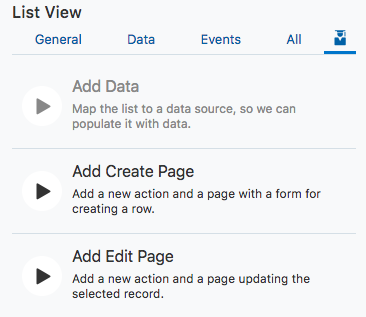
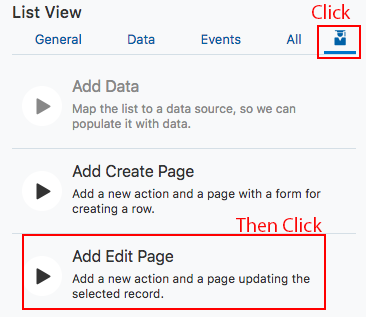
Updates to lab 200 in q/a got to line 134.

Changed region(s): [[0.0601, 0.6814, 0.9016, 0.9937], [0.8415, 0.0, 0.9918, 0.1987]]

diff --git a/LabGuide200.md b/LabGuide200.md
@@ -14,13 +14,13 @@
 
 ## Required Artifacts
 
-- This lab assumes that you have completed the [lab 100](/LabGuide100.md).
+- This lab assumes that you have completed the [Lab 100](/LabGuide100.md).
 
-## Add Create and Edit Pages
+## Creating and Editing Pages
 
 Now that we have a display of our data, the next step is to allow additions and edits to that data. This will allow users to add new wines as they become available and edit the inventory/reserved counts.
 
-### Add Create Page
+### Create a New Page
 
 - In the **Designer View** of our app, click inside the list component but outside an individual item so that the List is selected and the **List View** tag is displayed in blue.
 
@@ -47,7 +47,7 @@ Now that we have a display of our data, the next step is to allow additions and 
 
 ![](images/LabGuide200-1be1d6be.png)
 
-- You will be presented with the main page of the app again. In order to view the new page  select the monitor icon,, and expand **InventoryWebApp --> flows --> main** dropdown then select **CreateInventory**.
+- You will be presented with the main page of the app again. In order to view the new page  select the monitor icon, and expand **InventoryWebApp --> flows --> main** dropdown then select **CreateInventory**.
 
 ![](images/LabGuide200-743dc668.png)
 
@@ -62,13 +62,17 @@ Now that we have a display of our data, the next step is to allow additions and 
 - Once in live mode, enter a new wine and click **Save**. You can enter your favorite wine or use the following example:
 
   - **name:** ```  Ice  ```
-  - **variant:** ```  white  ```
   - **quantity:** ```  50  ```
   - **reserved:** ```  0  ```
+  - **variant:** ```  white  ```
 
 ![](images/LabGuide200-dc8bd8fe.png)
 
-(The save may take a few seconds, you'll know it's finished when you see the following screen.)
+The save may take a few seconds, you'll will first see the image below.
+
+![](images/LabGuide200-92be9188.png)
+
+Once the save is complete the following image will appear.
 
 ![](images/LabGuide200-b055e910.png)
 
@@ -76,26 +80,35 @@ Now that we have a display of our data, the next step is to allow additions and 
 
 ![](images/LabGuide200-8a1542ea.png)
 
-- Exit Live mode by selecting the Design button.
+- Then press the **Run** button.
 
-![](images/LabGuide200-42ac6cc4.png)
+![](images/LabGuide200-c22e5c87.png)
 
-
-- Back in the **main-start** page you'll see our new entry is added to the list, and also note that there is a new **Create** button which was added for us by using the **Quick Start** guide. Buttons are automatically created to link pages inside the quick start guide.
+- In the new browser tab you'll see our added data is in the list, and also note that there is a new **Create** button which was added for us by using the **Quick Start** guide. Buttons are automatically created to link pages inside the quick start guide.
 
 ![](images/LabGuide200-b7a2d3dc.png)
+
+- Close your new tab to and exit Live mode by selecting the **Design** button.
+
+![](images/LabGuide200-42ac6cc4.png)
 
 ### Add Edit Page
 
 - Now lets use the **Quick Start** guide to add an **Edit** page and a **Delete** button to our app's main page. Once again, click on the **List** component outside of a specific item so that the **List View** tag appears.
 
-  ![](images/200/listSelected.png)
+![](images/200/listSelected.png)
 
-- Now the **List View** detail panel should be displayed on the right. Click on the **Quick Start** icon and we'll see the links to add pages. This time we'll add an **Edit** page. This will allow users to edit the inventory and reserve counts of the items. Click on **Add Edit Page** in the right panel.
+- Now the **List View** detail panel should be displayed on the right. Click on the **Quick Start** icon and we'll see the links to add pages. Then click on **Add Edit Page** in the right panel.
 
-  - ![](images/200/addEditPage.png)
+![](images/200/addEditPage.png)
 
-- On the **Select Read Endpoint** page we'll leave the default endpoint selected (GET /Inventory/{Inventory_Id}), and click **Next**. On the next step we'll leave the **Select Update Endpoint** set as the default (PATCH /Inventory/{Inventory_Id}) and click **Next**.
+- On the **Select Read Endpoint** page we'll leave the default endpoint selected (GET /Inventory/{Inventory_Id}), and click **Next**.
+
+![](images/LabGuide200-7465d138.png)
+
+- On the next step we'll leave the **Select Update Endpoint** set as the default (PATCH /Inventory/{Inventory_Id}) and click **Next**.
+
+![](images/LabGuide200-2649ed80.png)
 
 - In the **Page Details** step we'll select the fields we want displayed on our edit page, and then click **Finish**. Here we'll select:
 
@@ -104,9 +117,23 @@ Now that we have a display of our data, the next step is to allow additions and 
   - Quantity
   - Reserved
 
-  ![](images/200/editFields.png)
+![](images/LabGuide200-d0d96085.png)
 
-- Now if we go back to our "Main-start" page and again enter **Live** mode by clicking the "Live" button above the right panel we can test our edit page. Click on a list entry and the the **Edit Inventory** button will become active. Click on the **Edit Inventory** button to go to our new edit page we just created.
+- Once the creation process completes click on the **main-start** page tab.
+
+![](images/LabGuide200-0fc6d691.png)
+
+ - The open the **Live** mode by clicking the "Live" button above the right panel we can test our edit page.
+
+ ![](images/LabGuide200-cd415c35.png)
+
+- In the left hand panel expand the flows andmain menu options. Then open the **main-edit-inventory** page.
+
+![](images/LabGuide200-eef9b197.png)
+
+**Chip Stopped q/a here
+
+- Then Click on the **Edit Inventory** button to go to our new edit page we just created.
 
   ![](images/200/editLive.png)
 

diff --git a/LabGuide50.md b/LabGuide50.md
@@ -26,16 +26,16 @@ During this lab we will take your new trial account and show you how to provisio
 
 - Enter your User Name and Password provided for your trial account and click **Sign In**
 
-    ![](images/100/idcs_login.png)
+![](images/100/idcs_login.png)
 
 
 - You will be presented with a Dashboard displaying the various cloud services available to this account.
 
-  ![](images/100/cloud_dash.png)
+![](images/100/cloud_dash.png)
 
 - If the Visual Builder Cloud Service does not appear in your list click the customize dashboard button.
 
-  ![](images/100/custom_dash.png)
+![](images/100/custom_dash.png)
 
 - Then select Visual Builder and click the show button.
 
